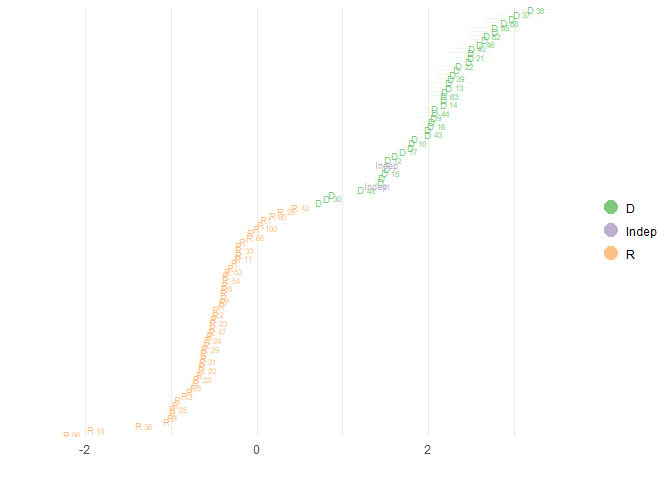
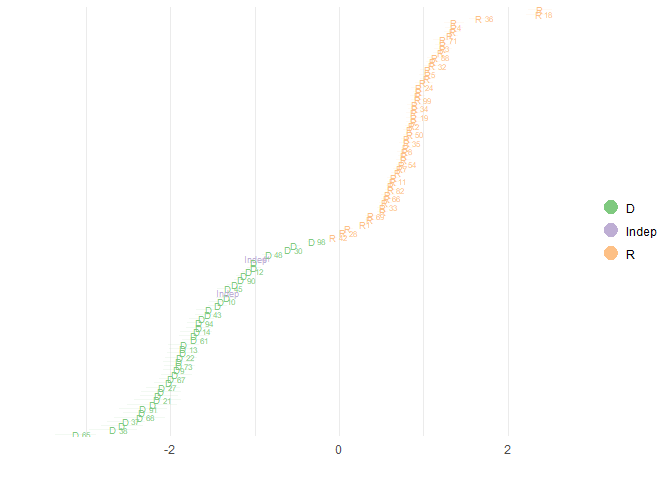
updating README file

diff --git a/README.md b/README.md
@@ -8,11 +8,13 @@ R Package Idealstan (V0.2) README
 
 [![Travis-CI Build Status](https://travis-ci.org/saudiwin/idealstan.svg?branch=master)](https://travis-ci.org/saudiwin/idealstan)
 
-This package implements IRT (item response theory) ideal point models, which are models designed for situations in which actors make strategic choices that correlate with a unidimensional scale, such as the left-right axis in American politics. Compared to traditional IRT, ideal point models have un-constrained discrimination parameters to allow for the polarity in the ideal point space. This package offers standard IRT ideal point models, but goes farther in including models that account for strategic censoring in observations, particularly for legislatures in which legislators (persons) are strategically absent. The package also includes ordinal IRT models for situations in which legislators may vote to abstain (or any other kind of ordinal category). `idealstan` is based on the Stan package for Bayesian inference, which includes both MCMC full Bayesian estimation and a faster variational Bayesian approximation. The package also has plotting functions for model parameters, particularly the legislator (person) ideal points (ability parameters).
+This package implements IRT (item response theory) ideal point models, which are models designed for situations in which actors make strategic choices that correlate with a unidimensional scale, such as the left-right axis in American politics. Compared to traditional IRT, ideal point models examine the polarizing influence of a set of items on a set of persons, and has simlarities to models based on latent spaces, such as multi-dimensional scaling. For more information, I refer you to a paper presented at StanCon 2018.
 
-This vignette demonstrates basic usage of the package, which is currently released as a beta version. A release on CRAN is planned within the next two months that will incorporate additional models, including hierarchical and dynamic IRT ideal point modeling.
+This package offers standard IRT ideal point models, but goes farther in including models that account for strategic censoring in observations. While this kind of missing data pattern can be found in many situations in which IRT data is not missing at random, it was developed to account for legislatures in which legislators (persons) are strategically absent for votes on bills (items). The package also includes ordinal ideal point models to handle situations in which a ranked outcome is polarizing, such as a legislator who can vote yes, no or to abstain. `idealstan` is based on the Stan package for Bayesian inference, which includes both MCMC full Bayesian estimation and a faster variational Bayesian approximation. The package also has plotting functions for model parameters, particularly the legislator (person) ideal points (ability parameters).
 
-This package takes an approach to modeling legislative roll call data (and other IRT data) that uses a hurdle model to separately account for the probability that a legislator (i.e., test-taker) will show up to vote. This absence-inflated model estimates additional bill (item) parameters to reflect the relative gain or loss a legislator has from showing up to vote.
+This vignette demonstrates basic usage of the package in its first release to CRAN. Additional models incorporating dynamic IRT methods are planned for future releases (and in fact are already included but currently undocumented).
+
+Missing data inference is accomplished using a hurdle model to separately account for the probability that a person/legislator (i.e., test-taker) will show up to vote. This absence-inflated model estimates additional bill (item) parameters to reflect the relative gain or loss a legislator/person has from showing up to vote.
 
 To begin with, we can simulate data from an ordinal ideal-point model in which there are three possible responses corresponding to a legislator voting: yes, abstain and no. An additional category is also simulated that indicates whether a legislator shows up to vote or is absent. While traditional ideal point models tend to drop absences, this package can utilize absences via a hurdle model in which the censoring of the vote/score data is estimated as a function of individual bill intercepts and discrimination parameters for the decision to be absent or present.
 
@@ -23,12 +25,12 @@ knitr::kable(as_data_frame(head(ord_ideal_sim@score_matrix)))
 
 |    1|    2|    3|    4|    5|    6|    7|    8|    9|   10|   11|   12|   13|   14|   15|   16|   17|   18|   19|   20|   21|   22|   23|   24|   25|   26|   27|   28|   29|   30|   31|   32|   33|   34|   35|   36|   37|   38|   39|   40|   41|   42|   43|   44|   45|   46|   47|   48|   49|   50|
 |----:|----:|----:|----:|----:|----:|----:|----:|----:|----:|----:|----:|----:|----:|----:|----:|----:|----:|----:|----:|----:|----:|----:|----:|----:|----:|----:|----:|----:|----:|----:|----:|----:|----:|----:|----:|----:|----:|----:|----:|----:|----:|----:|----:|----:|----:|----:|----:|----:|----:|
-|    2|    4|    4|    3|    3|    2|    4|    2|    1|    3|    4|    2|    4|    1|    4|    3|    4|    3|    2|    4|    4|    4|    4|    4|    3|    1|    2|    3|    4|    4|    4|    4|    3|    4|    4|    1|    1|    4|    1|    4|    3|    4|    1|    4|    1|    1|    3|    3|    1|    3|
-|    4|    4|    4|    3|    4|    1|    4|    1|    3|    4|    1|    3|    3|    2|    4|    3|    4|    2|    3|    1|    3|    4|    4|    1|    2|    4|    4|    4|    4|    2|    4|    4|    4|    4|    4|    1|    2|    4|    4|    3|    3|    4|    4|    1|    3|    3|    3|    3|    1|    3|
-|    3|    4|    4|    4|    1|    4|    3|    3|    1|    4|    3|    1|    3|    3|    4|    4|    3|    4|    4|    2|    1|    1|    4|    4|    2|    3|    1|    4|    1|    3|    2|    3|    4|    1|    4|    1|    2|    1|    3|    4|    2|    1|    1|    1|    3|    3|    1|    1|    4|    4|
-|    4|    3|    1|    4|    4|    1|    3|    1|    1|    4|    3|    3|    1|    3|    3|    4|    1|    4|    4|    4|    4|    4|    4|    4|    3|    1|    4|    4|    4|    3|    1|    3|    4|    3|    3|    4|    4|    4|    4|    1|    1|    3|    4|    1|    4|    3|    4|    1|    4|    4|
-|    1|    3|    4|    3|    3|    1|    4|    3|    4|    3|    4|    1|    4|    1|    1|    4|    3|    3|    1|    3|    3|    4|    3|    1|    3|    1|    4|    1|    4|    1|    1|    4|    3|    1|    2|    1|    3|    2|    4|    4|    4|    4|    1|    3|    3|    4|    3|    3|    1|    1|
-|    3|    3|    3|    3|    2|    3|    1|    1|    1|    1|    3|    3|    1|    3|    1|    1|    2|    4|    1|    3|    4|    4|    4|    4|    1|    4|    4|    4|    4|    1|    1|    3|    3|    1|    4|    4|    3|    4|    1|    3|    2|    3|    4|    3|    4|    3|    1|    1|    3|    1|
+|    1|    4|    3|    4|    3|    3|    3|    1|    4|    3|    3|    4|    3|    1|    4|    4|    4|    1|    4|    3|    4|    1|    1|    4|    1|    3|    4|    3|    3|    4|    1|    1|    4|    1|    1|    3|    1|    1|    1|    3|    4|    4|    1|    1|    4|    3|    3|    3|    4|    3|
+|    1|    1|    3|    4|    3|    4|    3|    1|    4|    3|    4|    4|    4|    1|    1|    4|    4|    1|    4|    3|    4|    1|    3|    4|    3|    3|    4|    3|    3|    4|    4|    1|    4|    1|    1|    1|    4|    4|    1|    3|    4|    4|    1|    1|    1|    4|    3|    3|    4|    3|
+|    2|    4|    4|    1|    4|    4|    1|    4|    4|    4|    4|    1|    2|    4|    1|    4|    4|    4|    3|    4|    1|    4|    4|    3|    1|    4|    2|    4|    4|    3|    3|    3|    1|    3|    4|    4|    2|    2|    3|    4|    1|    3|    4|    3|    4|    3|    4|    4|    3|    4|
+|    3|    1|    3|    1|    4|    4|    4|    4|    4|    1|    4|    1|    2|    4|    3|    1|    4|    3|    1|    1|    4|    4|    4|    1|    4|    2|    4|    3|    4|    4|    3|    3|    3|    3|    3|    1|    3|    4|    4|    4|    4|    1|    1|    1|    4|    4|    1|    2|    2|    1|
+|    1|    4|    3|    4|    3|    4|    3|    4|    3|    2|    3|    4|    4|    4|    4|    4|    2|    1|    4|    3|    4|    1|    1|    4|    4|    3|    1|    3|    3|    4|    1|    4|    4|    1|    1|    1|    4|    4|    4|    3|    4|    4|    1|    3|    4|    3|    3|    3|    4|    3|
+|    3|    1|    4|    3|    4|    1|    4|    4|    4|    4|    4|    1|    3|    3|    1|    1|    3|    4|    1|    4|    1|    4|    4|    3|    1|    4|    3|    4|    4|    4|    3|    4|    1|    4|    4|    4|    3|    3|    3|    4|    1|    3|    4|    4|    3|    1|    4|    4|    3|    4|
 
 The vote/score matrix has legislators/persons in the rows and bills/items in the columns. In this simulated data, yes votes are recorded as `3`, no votes as `1`, abstentions as `2`, and absences as `4`.
 
@@ -58,11 +60,11 @@ id_plot_sims(ord_ideal_est,type='Residuals')
 
 ![](README_files/figure-markdown_github/check_true-1.png)
 
-`legis_resid` are the legislator/person ideal points, `sigma_abs_resid` are the bill/item absence-inflated discrimination parameters, and `sigma_reg_resid` are the bill/item non-inflated discrimination parameters.
+`Ideal Points` are the legislator/person ideal points, `Absence Discrimination` are the bill/item absence-inflated discrimination parameters, and `Item Discrimination` are the bill/item non-inflated discrimination parameters.
 
 Although the model does not do a perfect job of capturing the true values, it is reasonably close for most of the parameters.
 
-The main use of this package is for datasets that are set up in a rollcall voting framework, although any dataset can be used if the responses are binary or ordinal. To show how the package functions empirically, I include in the package the complete voting record of the 114th Senate from the website (www.voteview.com). We can convert this data, which is currently in the form of a `rollcall` object from the `pscl` package, to an `idealdata` object suitable for estimation by using the `id_make` function and specifying which numbers in the vote/score matrix correspond to yes/no votes (or correct/incorrect). We could specify a middle category, `abs_vote`, but we will not do so in this example because this dataset has very few abstentions so there is no reason to add on the extra complexity for just a handful of votes in the dataset.
+This package was developed for datasets that are set up in a rollcall voting framework, although any dataset can be used if the responses are binary or ordinal. To show how the package functions empirically, I include in the package the complete voting record of the 114th Senate from the website (www.voteview.com). We can convert this data, which is currently in the form of a `rollcall` object from the `pscl` package, to an `idealdata` object suitable for estimation by using the `id_make` function. The `id_make` function can also accept a voter/score data as a matrix in which persons are the rows and items are the columns. The ordinal and/or binary values in the matrix must be specified to the `id_make` function.
 
 ``` r
 data('senate114')
@@ -89,7 +91,7 @@ sen_est <- id_estimate(senate_data,
                  use_vb = T,
                  ncores=4,
                  nfix=2,
-                 restrict_type='constrain_twoway',
+                 restrict_type='constrain_oneway',
                  restrict_params='person',
                  restrict_ind_high = which(row.names(senate114$votes[-1,])=='SASSE (R NE)'),
                  auto_id=F,
@@ -122,8 +124,10 @@ sen_est <- id_estimate(senate_data,
     ## Begin stochastic gradient ascent.
     ##   iter       ELBO   delta_ELBO_mean   delta_ELBO_med   notes 
     ##    100    -2e+004             1.000            1.000
-    ##    200    -2e+004             0.505            1.000
-    ##    300    -2e+004             0.337            0.010   MEDIAN ELBO CONVERGED
+    ##    200    -2e+004             0.506            1.000
+    ##    300    -2e+004             0.339            0.013
+    ##    400    -2e+004             0.254            0.013
+    ##    500    -2e+004             0.204            0.003   MEDIAN ELBO CONVERGED
     ## 
     ## Drawing a sample of size 1000 from the approximate posterior... 
     ## COMPLETED.
